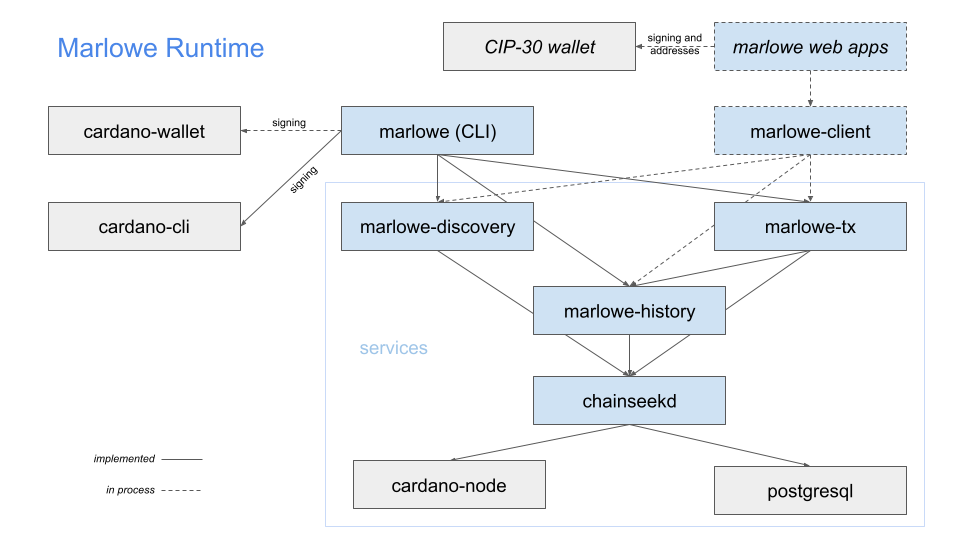
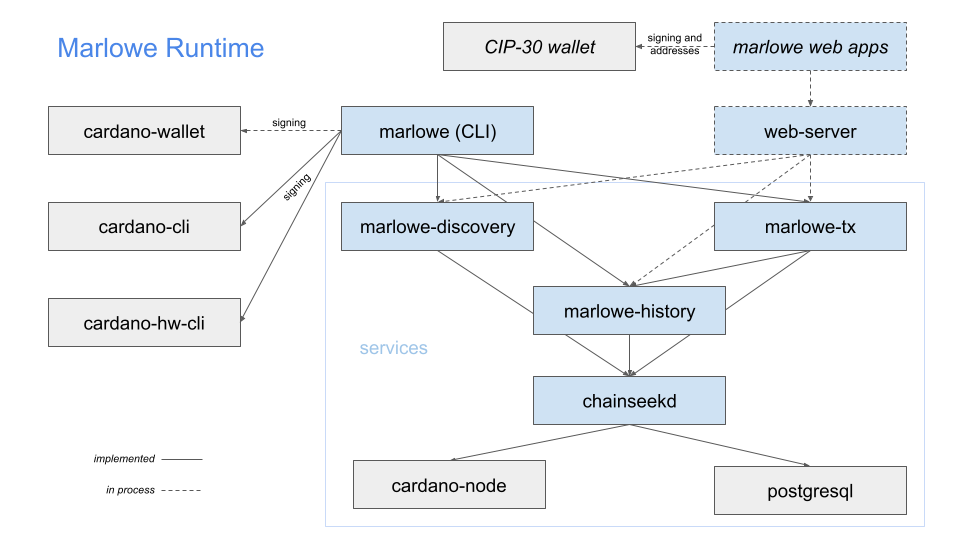
SCP-4434 Updated name of webserver client.

diff --git a/marlowe-runtime/doc/ReadMe.md b/marlowe-runtime/doc/ReadMe.md
@@ -14,7 +14,7 @@ Knowledge of Haskell or Plutus is not required for developers to communicate wit
 
 ## Architecture
 
-The backend for Marlowe runtime consists of a chain-indexing service (`chainseekd`), a history-tracking service for Marlowe contracts (`marlowe-history`), a discovery service for Marlowe contracts (`marlowe-discovery`), and a transaction-creation service for Marlowe contracts (`marlowe-tx`). These backend services operate in concert and rely upon [cardano-node](https://github.com/input-output-hk/cardano-node/blob/master/README.rst) for blockchain connectivity and upon [PostgreSQL](https://www.postgresql.org/) for persistent storage. Access to the backend services is provided via a command-line client (`marlowe`) or a REST/WebSocket server (`marlowe-client`) that uses JSON payloads. Web applications can integrate with a [CIP-30 light wallet](https://cips.cardano.org/cips/cip30/) for transaction signing, whereas enterprise applications can integrate with [cardano-wallet](https://github.com/input-output-hk/cardano-wallet/blob/master/README.md), [cardano-cli](https://github.com/input-output-hk/cardano-node/blob/master/cardano-cli/README.md), or [cardano-hw-cli](https://github.com/vacuumlabs/cardano-hw-cli/blob/develop/README.md) for signing transactions.
+The backend for Marlowe runtime consists of a chain-indexing service (`chainseekd`), a history-tracking service for Marlowe contracts (`marlowe-history`), a discovery service for Marlowe contracts (`marlowe-discovery`), and a transaction-creation service for Marlowe contracts (`marlowe-tx`). These backend services operate in concert and rely upon [cardano-node](https://github.com/input-output-hk/cardano-node/blob/master/README.rst) for blockchain connectivity and upon [PostgreSQL](https://www.postgresql.org/) for persistent storage. Access to the backend services is provided via a command-line client (`marlowe`) or a REST/WebSocket server (`web-server`) that uses JSON payloads. Web applications can integrate with a [CIP-30 light wallet](https://cips.cardano.org/cips/cip30/) for transaction signing, whereas enterprise applications can integrate with [cardano-wallet](https://github.com/input-output-hk/cardano-wallet/blob/master/README.md), [cardano-cli](https://github.com/input-output-hk/cardano-node/blob/master/cardano-cli/README.md), or [cardano-hw-cli](https://github.com/vacuumlabs/cardano-hw-cli/blob/develop/README.md) for signing transactions.
 
 ![Marlowe Runtime ecosystem](diagrams/ecosystem.png)
 
